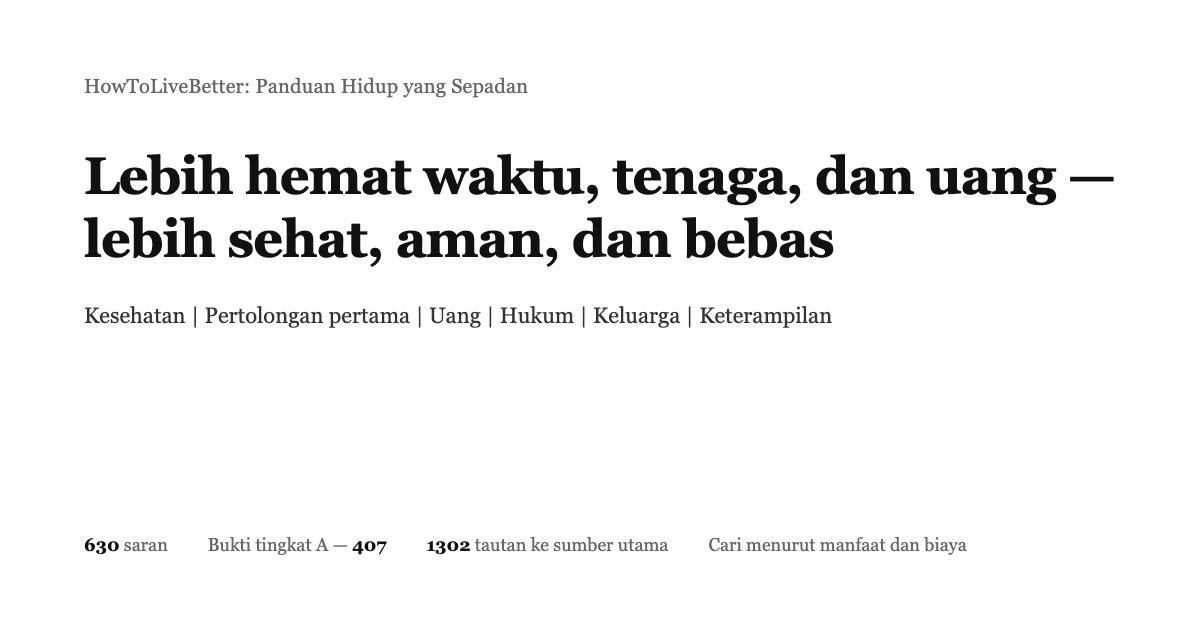
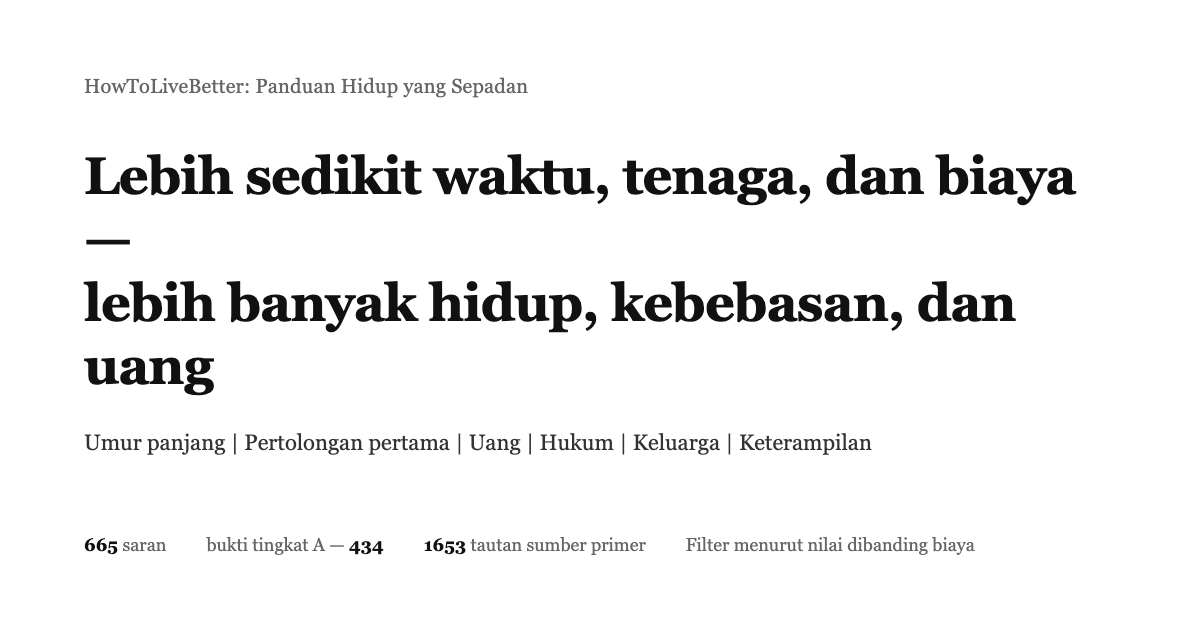
chore(og): refresh stats badges and OG images after a4e920f (#143)
Sync ar/id README badge numbers, regenerate OG HTML/PNGs (665/434/1653),
and trim .retranslate-pending to remaining ar/id lag.

diff --git a/forge/og/id.html b/forge/og/id.html
@@ -21,15 +21,15 @@ h1{margin-top:44px;font-size:52px;line-height:1.22;letter-spacing:-.015em;color:
 <div class="in">
     <div class="brand">HowToLiveBetter: Panduan Hidup yang Sepadan</div>
     <h1>
-        Lebih hemat waktu, tenaga, dan uang —
+        Lebih sedikit waktu, tenaga, dan biaya —
         <br>
-        lebih sehat, aman, dan bebas
+        lebih banyak hidup, kebebasan, dan uang
     </h1>
-    <p class="topics">Kesehatan | Pertolongan pertama | Uang | Hukum | Keluarga | Keterampilan</p>
+    <p class="topics">Umur panjang | Pertolongan pertama | Uang | Hukum | Keluarga | Keterampilan</p>
     <div class="stats">
-        <span><b>630</b> saran</span>
-        <span>Bukti tingkat A — <b>407</b></span>
-        <span><b>1302</b> tautan ke sumber utama</span>
-        <span>Cari menurut manfaat dan biaya</span>
+        <span><b>665</b> saran</span>
+        <span>bukti tingkat A — <b>434</b></span>
+        <span><b>1653</b> tautan sumber primer</span>
+        <span>Filter menurut nilai dibanding biaya</span>
     </div>
 </div>

diff --git a/forge/og/ru.html b/forge/og/ru.html
@@ -27,9 +27,9 @@ h1{margin-top:44px;font-size:52px;line-height:1.22;letter-spacing:-.015em;color:
     </h1>
     <p class="topics">Долголетие | Первая помощь | Деньги | Право | Семья | Навыки</p>
     <div class="stats">
-        <span><b>649</b> советов</span>
-        <span>Доказательства класса A — <b>428</b></span>
-        <span><b>1531</b> ссылок на первоисточники</span>
+        <span><b>665</b> советов</span>
+        <span>Доказательства класса A — <b>434</b></span>
+        <span><b>1653</b> ссылок на первоисточники</span>
         <span>Фильтр по выгодности</span>
     </div>
 </div>

diff --git a/forge/og/ar.html b/forge/og/ar.html
@@ -27,9 +27,9 @@ h1{margin-top:44px;font-size:52px;line-height:1.22;letter-spacing:-.015em;color:
     </h1>
     <p class="topics">طول العمر | الإسعافات الأولية | المال | القانون | الأسرة | المهارات</p>
     <div class="stats">
-        <span><b>630</b> نصيحة</span>
-        <span>أدلة من الدرجة A — <b>420</b></span>
-        <span><b>1341</b> رابطًا للمصادر الأولية</span>
+        <span><b>665</b> نصيحة</span>
+        <span>أدلة من الدرجة A — <b>434</b></span>
+        <span><b>1653</b> رابطًا للمصادر الأولية</span>
         <span>صفِّ حسب القيمة مقابل الجهد</span>
     </div>
 </div>

diff --git a/forge/og/pt.html b/forge/og/pt.html
@@ -27,9 +27,9 @@ h1{margin-top:44px;font-size:52px;line-height:1.22;letter-spacing:-.015em;color:
     </h1>
     <p class="topics">Longevidade | Primeiros socorros | Dinheiro | Leis | Família | Habilidades</p>
     <div class="stats">
-        <span><b>649</b> recomendações</span>
-        <span>Evidência nível A — <b>428</b></span>
-        <span><b>1531</b> links para fontes primárias</span>
+        <span><b>665</b> recomendações</span>
+        <span>Evidência nível A — <b>434</b></span>
+        <span><b>1653</b> links para fontes primárias</span>
         <span>Filtro por custo-benefício</span>
     </div>
 </div>

diff --git a/forge/og/es.html b/forge/og/es.html
@@ -27,9 +27,9 @@ h1{margin-top:44px;font-size:52px;line-height:1.22;letter-spacing:-.015em;color:
     </h1>
     <p class="topics">Longevidad | Primeros auxilios | Dinero | Leyes | Familia | Habilidades</p>
     <div class="stats">
-        <span><b>649</b> consejos</span>
-        <span>Evidencia de grado A — <b>428</b></span>
-        <span><b>1531</b> enlaces a fuentes primarias</span>
+        <span><b>665</b> consejos</span>
+        <span>Evidencia de grado A — <b>434</b></span>
+        <span><b>1653</b> enlaces a fuentes primarias</span>
         <span>Filtro por relación valor-precio</span>
     </div>
 </div>

diff --git a/forge/og/zh.html b/forge/og/zh.html
@@ -27,9 +27,9 @@ h1{margin-top:44px;font-size:52px;line-height:1.22;letter-spacing:-.015em;color:
     </h1>
     <p class="topics">长寿防病 | 急救 | 省钱理财 | 法律红线 | 失业兜底 | 家庭 | 技能</p>
     <div class="stats">
-        <span><b>649</b> 条建议</span>
-        <span>A 级证据 — <b>428</b> 条</span>
-        <span><b>1531</b> 条原始文献链接</span>
+        <span><b>665</b> 条建议</span>
+        <span>A 级证据 — <b>434</b> 条</span>
+        <span><b>1653</b> 条原始文献链接</span>
         <span>可按性价比筛选</span>
     </div>
 </div>

diff --git a/forge/og/en.html b/forge/og/en.html
@@ -27,9 +27,9 @@ h1{margin-top:44px;font-size:56px;line-height:1.22;letter-spacing:-.015em;color:
     </h1>
     <p class="topics">Longevity | First aid | Money | Law | Safety net | Family | Skills</p>
     <div class="stats">
-        <span><b>649</b> tips</span>
-        <span>Grade-A evidence — <b>428</b></span>
-        <span><b>1531</b> primary-source links</span>
+        <span><b>665</b> tips</span>
+        <span>Grade-A evidence — <b>434</b></span>
+        <span><b>1653</b> primary-source links</span>
         <span>Filter by value-for-effort</span>
     </div>
 </div>

diff --git a/forge/og/build_og_html.py b/forge/og/build_og_html.py
@@ -14,9 +14,9 @@ HERE = os.path.dirname(os.path.abspath(__file__))
 TEMPLATE = os.path.join(HERE, "_template.html")
 
 # Shared stats (keep in sync with site badges / README until a stats sync lands).
-TIPS_N = "649"
-GRADE_A_N = "428"
-LINKS_N = "1531"
+TIPS_N = "665"
+GRADE_A_N = "434"
+LINKS_N = "1653"
 
 LATIN_SERIF = 'Georgia,"Times New Roman","Noto Serif",serif'
 ARABIC_SERIF = '"Noto Sans Arabic",Georgia,"Times New Roman",serif'

diff --git a/README.ar.md b/README.ar.md
@@ -6,12 +6,12 @@
 
 يغطي طول العمر والوقاية من الأمراض، والحوادث والإسعافات الأولية، وتوفير المال وإدارته، والوقاية من الاحتيال والخطوط القانونية الحمراء، وشبكة أمان للبطالة، ومخاطر العمل الحر، وبناء منصة مع الالتزام بالقانون، والحب والزواج والأطفال، والسفر إلى الخارج، وتعلم المهارات.
 
-654 نصيحة، تذكر كل واحدة منها تكلفتها وما تعيده وما درجة صلابة الدليل. تستشهد المصادر بأوراق المجلات العلمية والوثائق الرسمية فقط.
+665 نصيحة، تذكر كل واحدة منها تكلفتها وما تعيده وما درجة صلابة الدليل. تستشهد المصادر بأوراق المجلات العلمية والوثائق الرسمية فقط.
 
 ![البحث عبر الإنترنت](https://img.shields.io/badge/Online%20search-Open%20here-3451b2?style=flat-square)
-![العناصر](https://img.shields.io/badge/Items-654-18794e?style=flat-square)
-![درجات الأدلة](https://img.shields.io/badge/Evidence%20grades-A%20429%20%C2%B7%20B%20174%20%C2%B7%20C%2051-915930?style=flat-square)
-![المصادر الأولية](https://img.shields.io/badge/Primary%20sources-1569%20links-565a5f?style=flat-square)
+![العناصر](https://img.shields.io/badge/Items-665-18794e?style=flat-square)
+![درجات الأدلة](https://img.shields.io/badge/Evidence%20grades-A%20434%20%C2%B7%20B%20176%20%C2%B7%20C%2055-915930?style=flat-square)
+![المصادر الأولية](https://img.shields.io/badge/Primary%20sources-1653%20links-565a5f?style=flat-square)
 ![الترخيص](https://img.shields.io/badge/License-Unlicense-565a5f?style=flat-square)
 
 **[افتح صفحة البحث عبر الإنترنت](https://dlgrv.github.io/HowToLiveBetter/ar/)** | [جدول المحتويات](#table-of-contents) | [المصطلحات](#reading-the-numbers-glossary) | [سجلات التحقق](docs/research/核实记录/) | [هل الزواج يستحق (قراءة مطولة)](docs/research/ar/Is-Marriage-Worth-It.md) | [عدة الطوارئ المنزلية (قراءة مطولة)](docs/research/ar/Home-Emergency-Kit.md) | [هل تتوقف لمساعدة غريب (قراءة مطولة)](docs/research/ar/Should-You-Stop-To-Help-A-Stranger.md) | [ما التراخيص التي تحتاجها المنصة (قراءة مطولة)](docs/research/ar/What-Licenses-A-Platform-Needs.md)
@@ -76,7 +76,7 @@
 - **للتصفية حسب الشروط**: افتح [صفحة البحث عبر الإنترنت](https://dlgrv.github.io/HowToLiveBetter/ar/)؛ يمكنك التصفية بالكلمة المفتاحية والفصل ودرجة الدليل، والجمع بين ثلاثة أبعاد للتكلفة: هل يكلف مالا، وهل يستغرق وقتا، وهل يتطلب إرادة. تقرأ البيانات من نصوص book/ مباشرة؛ صحح النص فتتغير صفحة البحث معه.
 - **للقراءة بالترتيب**: العناصر داخل كل قسم مرتبة من الأعلى إلى الأدنى قيمة مقابل المال؛ ابدأ بالعناصر الأولى من كل قسم.
 - **إذا كانت سلسلة الأرقام صعبة القراءة**: لكل عنصر سطر بعبارة مبسطة يترجم نسب الخطر وفترات الثقة في حقل المنفعة إلى عبارات يومية مثل انخفاض احتمال الوفاة في المدة نفسها بنحو 20% أو احتجاز بضعة أيام وغرامة بمقدار كذا، مستخدما فقط الوقائع الموجودة في الأصل دون إضافة أرقام جديدة. يكفي هذا السطر وحده لاتخاذ القرار؛ ويحتفظ حقل المنفعة بكل الأرقام الخام وفترات الثقة لتتحقق بنفسك.
-- **للأصعب من الاستنتاجات فقط**: حدد في صفحة البحث درجة الدليل A لتحتفظ فقط بالعناصر الـ429 التي تحمل أرقاما ملموسة من تحليلات تلوية أو تجارب كبيرة.
+- **للأصعب من الاستنتاجات فقط**: حدد في صفحة البحث درجة الدليل A لتحتفظ فقط بالعناصر الـ434 التي تحمل أرقاما ملموسة من تحليلات تلوية أو تجارب كبيرة.
 - **للأجدر فقط**: حدد قيمة مقابل المال عالية جدا لتحصل على العناصر الـ111 التي لا تكلف مالا ولا وقتا ولا إرادة، ومنفعتها في المستوى الأكبر. أضف عليها مرشح ما تعيده لتحصل على قائمة الأولويات تحت ذلك المقياس.
 - **لا يزعجك أن تبدأ عناوين الأقسام بكلمة لا**: عنوان القسم يسمي النتيجة التي يحاول القسم منعها (لا تمت مبكرا، لا تهدر الوقت)، وليس حظرا شاملا لكل عنصر تحته. عناوين العناصر هي الأفعال الفعلية، وتبدأ دائما بفعل، ويحمل كل منها افعل هذا أو لا تفعل هذا، وكلا النوعين يعيش في القسم نفسه. فمثلا يحوي القسم 4 كلا من حول سأفعل ذلك إلى في ساعة كذا وفي مكان كذا عندما يحدث X افعل ذلك وتخط التلفاز والأخبار المتداولة. اقرأ حسب عنوان العنصر لا حسب نبرة عنوان القسم.
 
@@ -119,7 +119,7 @@
 | B     | مدعوم ببحوث لكن يصعب قياسه، أو أدلة من عينات صغيرة / دراسة واحدة |
 | C     | خبرة المؤلف أو إجماع عام، دون أدبيات مباشرة |
 
-من عناصر الكتاب الـ654، هناك 429 بدرجة A و174 بدرجة B و50 بدرجة C؛ و65 عنصرا موسوما بأنه محل خلاف و3 مواضع موسومة TODO بانتظار التحقق. العناصر A/B محل الخلاف موسومة بكلمة محل خلاف مع ذكر الدليل المعارض. تستشهد كل المصادر بالأدبيات الأولية فقط (أوراق المجلات التي تحمل DOI أو رابط PubMed، أو تقارير الجهات الرسمية مثل WHO وCDC ومكتب الإحصاءات الوطني)، ولا تستشهد أبدا بروايات منقولة. الأرقام غير المؤكدة موسومة بعبارة بانتظار التحقق.
+من عناصر الكتاب الـ665، هناك 434 بدرجة A و176 بدرجة B و55 بدرجة C؛ و67 عنصرا موسوما بأنه محل خلاف و3 مواضع موسومة TODO بانتظار التحقق. العناصر A/B محل الخلاف موسومة بكلمة محل خلاف مع ذكر الدليل المعارض. تستشهد كل المصادر بالأدبيات الأولية فقط (أوراق المجلات التي تحمل DOI أو رابط PubMed، أو تقارير الجهات الرسمية مثل WHO وCDC ومكتب الإحصاءات الوطني)، ولا تستشهد أبدا بروايات منقولة. الأرقام غير المؤكدة موسومة بعبارة بانتظار التحقق.
 
 ## مستويات القيمة مقابل المال
 
@@ -131,7 +131,7 @@
 | مقدار المنفعة | كبيرة / متوسطة / صغيرة | يطبق آليا من عتبات حقل المنفعة في العنصر نفسه حيث أمكن: للعمر الانخفاض النسبي (20% فأكثر كبيرة، و10-20% متوسطة، وأقل من 10% أو نقاط بديلة فقط صغيرة)؛ للمال المبلغ (عشرات الآلاف كبيرة، ومئات إلى آلاف متوسطة، وعشرات اليوانات صغيرة)؛ للحرية الشخصية التبعة (تجنب المسؤولية الجنائية كبيرة، وتجنب الاحتجاز أو العقوبة الإدارية متوسطة، وتجنب نزاع مدني صغيرة)؛ للوقت والطاقة التوفير (ساعات يوميا كبيرة، وساعات أسبوعيا متوسطة، ومرة واحدة صغيرة) |
 | القيمة مقابل المال | عالية جدا / عالية / عادية | منفعة كبيرة مع تكاليف ثلاثة صفرية يساوي عالية جدا؛ ومنفعة كبيرة بتكاليف منخفضة أو منفعة متوسطة بتكاليف صفرية يساوي عالية؛ والباقي يساوي عادية |
 
-من عناصر الكتاب الـ654، هناك 111 (17%) عالية جدا و298 (46%) عالية و245 (37%) عادية. الطبقة الوسطى سميكة عن قصد: مقدار المنفعة الأصلي له ثلاثة مستويات فقط، والتقطيع الأدق يكون دقة زائفة.
+من عناصر الكتاب الـ665، هناك 113 (17%) عالية جدا و302 (45%) عالية و250 (38%) عادية. الطبقة الوسطى سميكة عن قصد: مقدار المنفعة الأصلي له ثلاثة مستويات فقط، والتقطيع الأدق يكون دقة زائفة.
 
 **هذا المستوى حكم المؤلف لا الدليل**، وهو أساسا درجة C، ومستقل عن درجة الدليل. قد يكون العنصر درجة A لكن قيمته عادية (لقاح الحزام الناري له تجربة من المرحلة الثالثة بفعالية 97.2%، لكن الجرعتين تكلفان ثلاثة إلى أربعة آلاف يوان والحزام الناري نادرا ما يكون مميتا)، وقد يكون درجة C لكن قيمته عالية جدا (إرسال خط سيرك لأهلك قبل السفر إلى الخارج). وعادية لا تعني لا يجب فعله، فكل عنصر في الكتاب نصيحة جديرة بالأخذ؛ وتعني فقط أن تزن تلك النفقة بنفسك.
 

diff --git a/README.id.md b/README.id.md
@@ -2,7 +2,7 @@
 
 # Panduan Hidup yang Sepadan
 
-**630 saran dalam 34 bab.** Edisi ini memuat 407 butir tingkat A, 169 tingkat B, dan 54 tingkat C, dengan 1302 tautan pada kolom Sumber. Buku ini membahas kesehatan, keadaan darurat, uang, waktu, kerja, keluarga, dan keputusan besar. Tiap saran menjelaskan biaya, manfaat, kekuatan bukti, dan sumbernya. Naskah dasarnya (fork EN/CN) mencatat 654 saran, 429 tingkat A, dan 1569 tautan; angka edisi Indonesia berubah karena Bab 7 menggunakan program Indonesia.
+**630 saran dalam 34 bab.** Edisi ini memuat 407 butir tingkat A, 169 tingkat B, dan 54 tingkat C, dengan 1302 tautan pada kolom Sumber. Buku ini membahas kesehatan, keadaan darurat, uang, waktu, kerja, keluarga, dan keputusan besar. Tiap saran menjelaskan biaya, manfaat, kekuatan bukti, dan sumbernya. Naskah dasarnya (fork EN/CN) mencatat 665 saran, 434 tingkat A, dan 1653 tautan; angka edisi Indonesia berubah karena Bab 7 menggunakan program Indonesia.
 
 Kamu tidak harus melakukan semuanya. Pilih satu atau dua hal yang paling berguna untuk keadaanmu, lalu kembali lagi saat membutuhkan.
 
